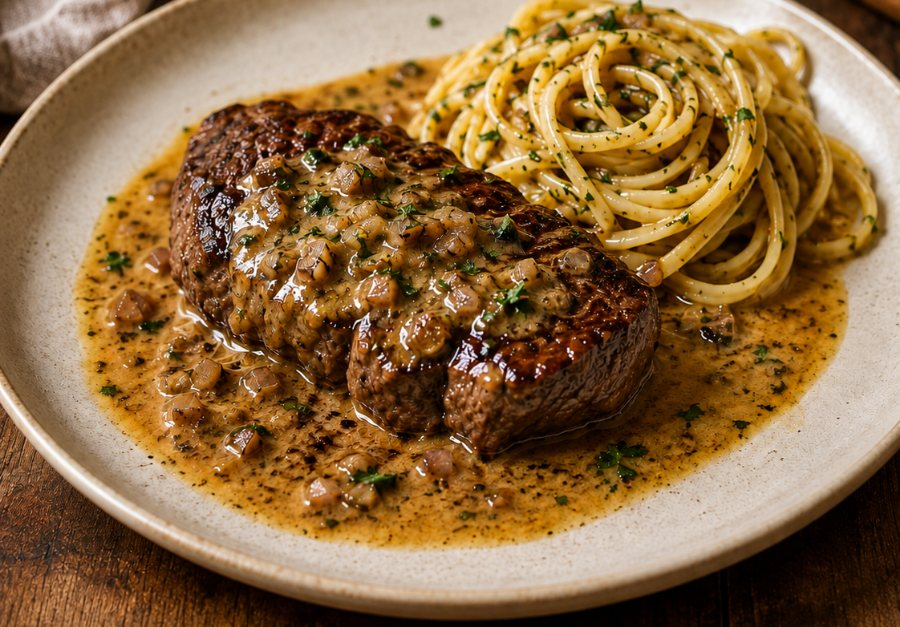
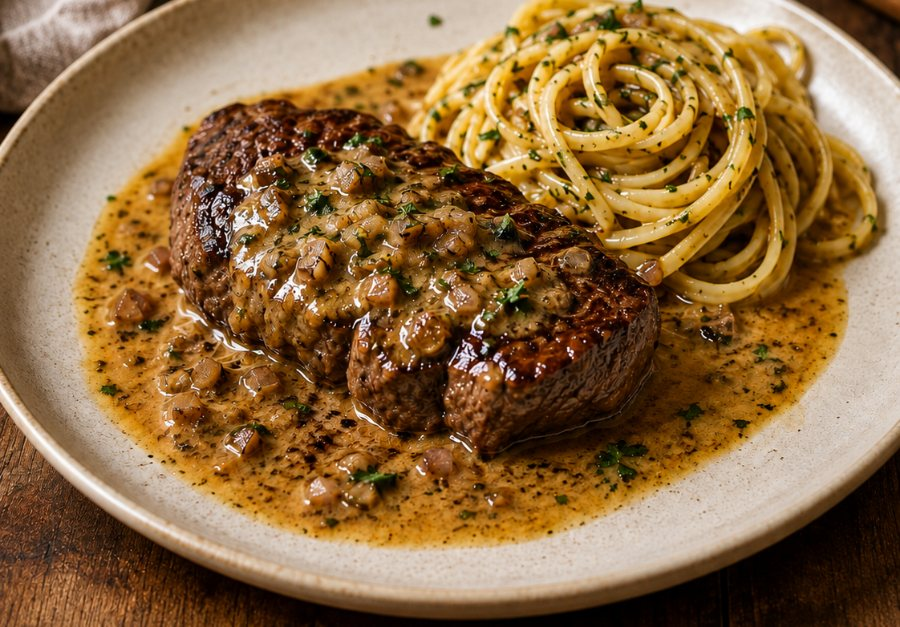
Deux photos de plus, et une détection de bandeau qui tient enfin
- p9  Salade de haricots et saumon caramélisé au zaatar
- p11 Courgette façon bolognaise

19 recettes illustrées sur 60.

La détection par les marges a lâché sur la salade de saumon : le fond de
cette photo est un plan gris pâle, aussi lisse d'un bord à l'autre que le
bandeau lui-même. Le bandeau avait fui dans l'image.

Deux tentatives et deux échecs plus tard, le bon discriminant : on prend
la couleur du tout dernier rang — toujours du bandeau — et on remonte tant
qu'un rang lui ressemble. Un titre, même gros et gras, laisse du fond
entre ses lettres : son taux baisse sans s'effondrer. Une photo tombe à
zéro et y reste. On ne quitte donc le bandeau que sur douze rangs
consécutifs franchement différents, ce qui laisse passer les filets
décoratifs sans arrêter la remontée.

Les sept photos déjà en place servent de témoins au script : leurs coupes
connues sont retrouvées à deux pixels près, ce qui valide la méthode
plutôt que de l'ajuster jusqu'à ce que la dernière image passe.

Claude-Session: https://claude.ai/code/session_01E3iEqaUucmxWi3zX8QoA3w

diff --git a/src/data.js b/src/data.js
@@ -1187,7 +1187,8 @@ export const CHEZNOUS_DATA = {
     "Saumon"
    ],
    "isVegan": false,
-   "isVeggie": false
+   "isVeggie": false,
+   "image": "/plats/p9.jpg"
   },
   {
    "id": "p10",
@@ -1449,7 +1450,8 @@ export const CHEZNOUS_DATA = {
     "Végan"
    ],
    "isVegan": true,
-   "isVeggie": true
+   "isVeggie": true,
+   "image": "/plats/p11.jpg"
   },
   {
    "id": "p12",
